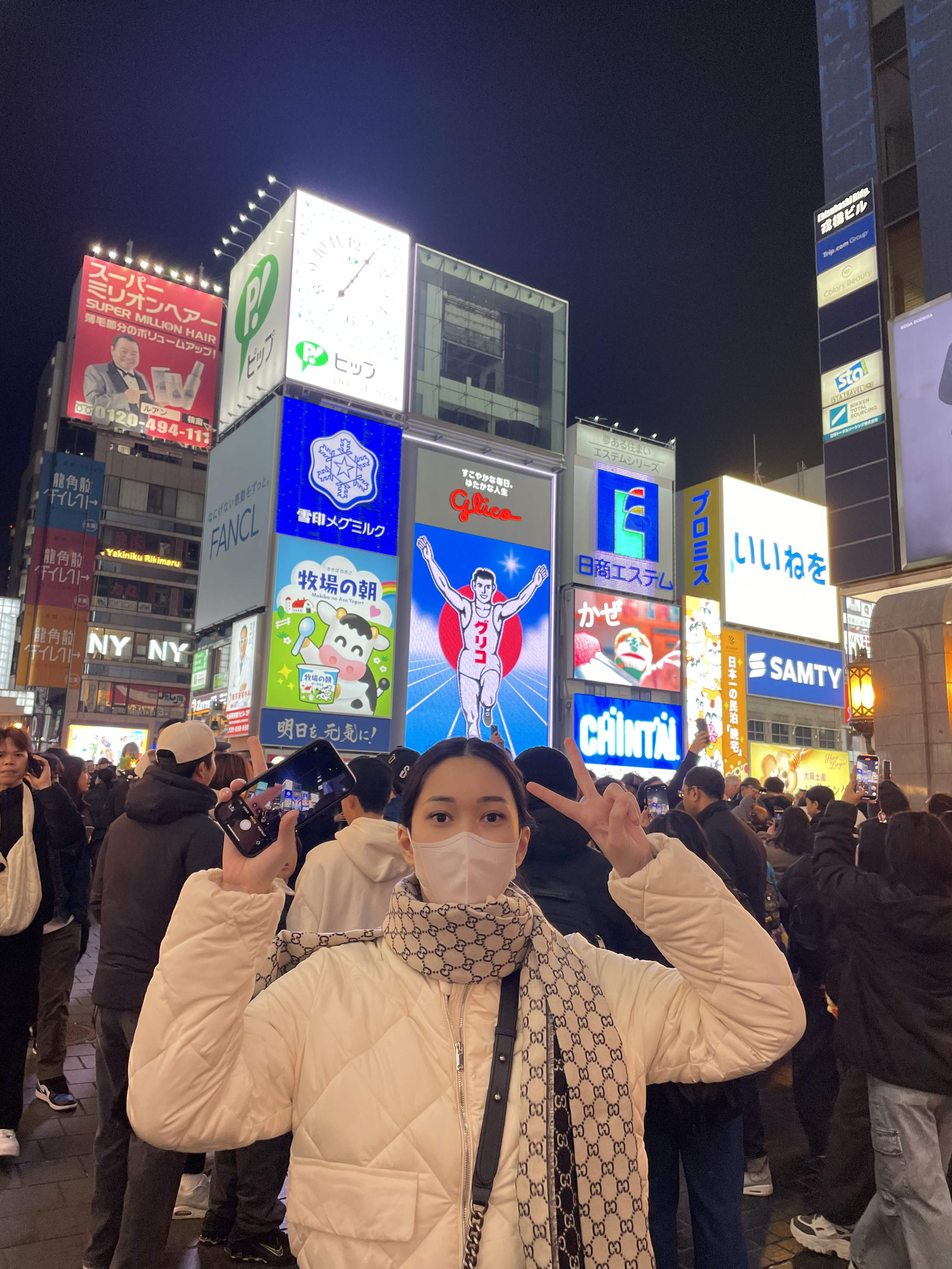
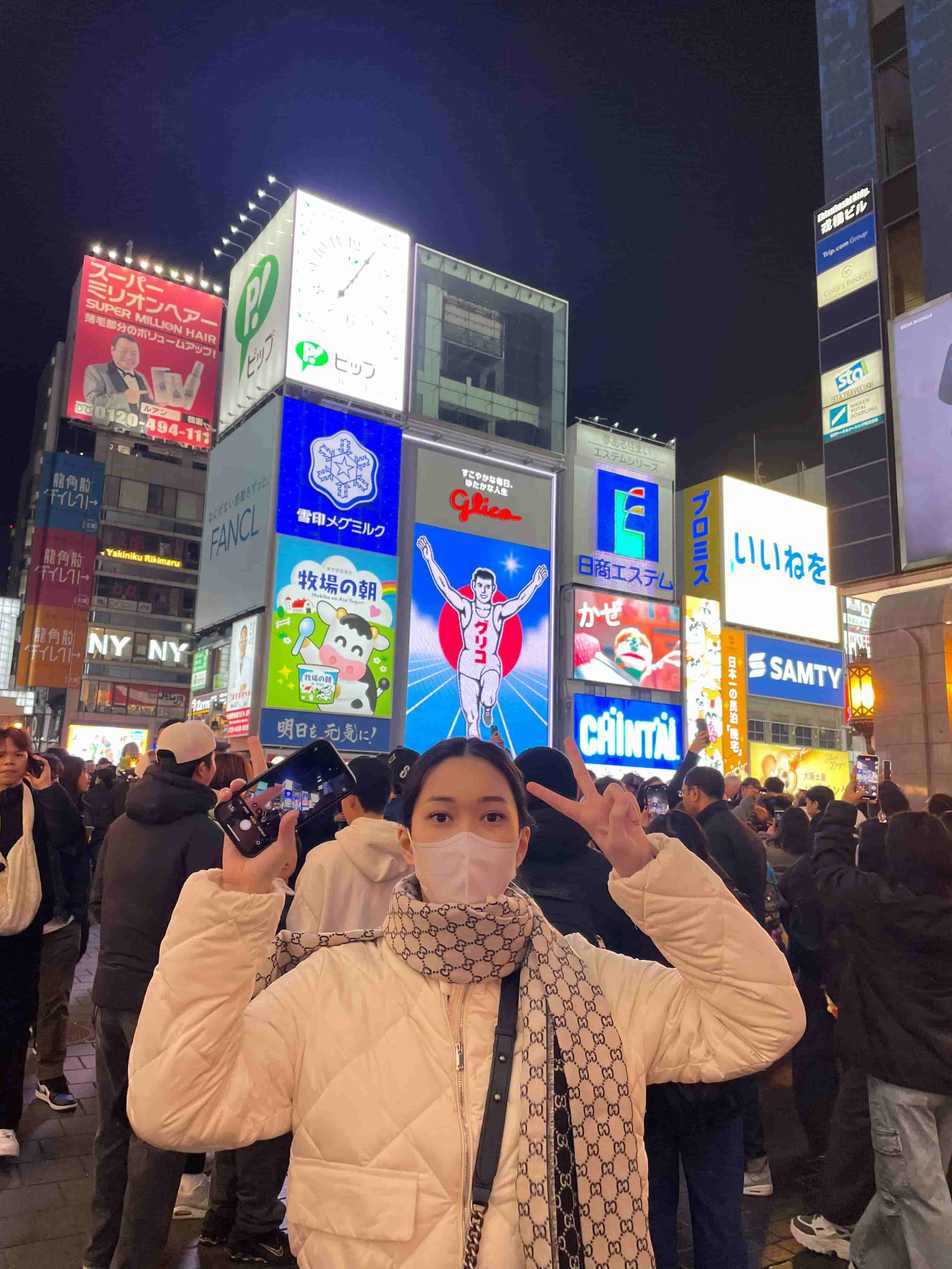
reduce img size

diff --git a/src/data/JourneyData.js b/src/data/JourneyData.js
@@ -1,0 +1,93 @@
+// Image imports - Vite handles these as static URLs
+export const IMAGES = {
+  2022: {
+    tokyo: [
+      new URL("../img/journey/JP_2022_1.jpeg", import.meta.url).href,
+      new URL("../img/journey/JP_2022_2.jpeg", import.meta.url).href,
+      new URL("../img/journey/JP_2022_3.jpeg", import.meta.url).href,
+      new URL("../img/journey/JP_2022_4.jpeg", import.meta.url).href,
+    ],
+  },
+  2023: {
+    korea: [
+      new URL("../img/journey/KOR_2023_1.jpeg", import.meta.url).href,
+      new URL("../img/journey/KOR_2023_2.jpeg", import.meta.url).href,
+      new URL("../img/journey/KOR_2023_3.jpeg", import.meta.url).href,
+      new URL("../img/journey/KOR_2023_4.jpeg", import.meta.url).href,
+    ],
+  },
+  2024: {
+    taiwan: [
+      new URL("../img/journey/TW_2024_1.jpeg", import.meta.url).href,
+      new URL("../img/journey/TW_2024_2.jpeg", import.meta.url).href,
+      new URL("../img/journey/TW_2024_3.jpeg", import.meta.url).href,
+    ],
+    hongkong: [
+      new URL("../img/journey/HK_2024_1.jpeg", import.meta.url).href,
+      new URL("../img/journey/HK_2024_2.jpeg", import.meta.url).href,
+      new URL("../img/journey/HK_2024_3.jpeg", import.meta.url).href,
+    ],
+  },
+  2025: {
+    japan: [
+      new URL("../img/journey/JP_2025_1.jpg", import.meta.url).href,
+      new URL("../img/journey/JP_2025_2.jpg", import.meta.url).href,
+      new URL("../img/journey/JP_2025_3.jpg", import.meta.url).href,
+    ],
+    hongkong: [
+      new URL("../img/journey/HK_2025_1.jpg", import.meta.url).href,
+      new URL("../img/journey/HK_2025_2.jpg", import.meta.url).href,
+      new URL("../img/journey/HK_2025_3.jpg", import.meta.url).href,
+    ],
+  },
+  2026: {
+    england: [
+      new URL("../img/journey/UK_2026_1.jpeg", import.meta.url).href,
+      new URL("../img/journey/UK_2026_2.jpeg", import.meta.url).href,
+      new URL("../img/journey/UK_2026_3.jpeg", import.meta.url).href,
+      new URL("../img/journey/UK_2026_4.jpg", import.meta.url).href,
+    ],
+  },
+};
+
+// Background images
+export const BACKGROUNDS = {
+  tokyo: new URL("../img/JP_Flag.png", import.meta.url).href,
+  korea: new URL("../img/KOR_Flag.png", import.meta.url).href,
+  hongkong: new URL("../img/HK_Flag.png", import.meta.url).href,
+  england: new URL("../img/UK_Flag.png", import.meta.url).href,
+};
+
+// Travel data configuration
+export const TRAVEL_DATA = [
+  {
+    year: "2022",
+    title: "We Come To Japan (Tokyo)",
+    background: BACKGROUNDS.tokyo,
+    images: [...IMAGES[2022].tokyo],
+  },
+  {
+    year: "2023",
+    title: "We Come To Korea",
+    background: BACKGROUNDS.korea,
+    images: [...IMAGES[2023].korea],
+  },
+  {
+    year: "2024",
+    title: "We Come To Taiwan & Hong Kong",
+    background: BACKGROUNDS.hongkong,
+    images: [...IMAGES[2024].taiwan, ...IMAGES[2024].hongkong],
+  },
+  {
+    year: "2025",
+    title: "We Come To Japan (Osaka) & Hong Kong",
+    background: BACKGROUNDS.tokyo,
+    images: [...IMAGES[2025].japan, ...IMAGES[2025].hongkong],
+  },
+  {
+    year: "2026",
+    title: "We Come To England",
+    background: BACKGROUNDS.england,
+    images: [...IMAGES[2026].england],
+  },
+];

diff --git a/src/data/GradData.js b/src/data/GradData.js
@@ -1,15 +1,15 @@
-import MonGrad1 from "../../img/about/Mon_Grad_1.jpeg";
-import MonGrad2 from "../../img/about/Mon_Grad_2.jpeg";
-import MonGrad3 from "../../img/about/Mon_Grad_3.jpeg";
-import MonGrad4 from "../../img/about/Mon_Grad_4.jpeg";
-import MonGrad5 from "../../img/about/Mon_Grad_5.jpeg";
-import MonGrad6 from "../../img/about/Mon_Grad_6.jpeg";
-import JimGrad1 from "../../img/about/Jim_Grad_1.jpeg";
-import JimGrad2 from "../../img/about/Jim_Grad_2.jpeg";
-import JimGrad3 from "../../img/about/Jim_Grad_3.jpeg";
-import JimGrad4 from "../../img/about/Jim_Grad_4.jpeg";
-import JimGrad5 from "../../img/about/Jim_Grad_5.jpeg";
-import JimGrad6 from "../../img/about/Jim_Grad_6.jpeg";
+import MonGrad1 from "../img/about/Mon_Grad_1.jpg";
+import MonGrad2 from "../img/about/Mon_Grad_2.jpeg";
+import MonGrad3 from "../img/about/Mon_Grad_3.jpeg";
+import MonGrad4 from "../img/about/Mon_Grad_4.jpeg";
+import MonGrad5 from "../img/about/Mon_Grad_5.jpeg";
+import MonGrad6 from "../img/about/Mon_Grad_6.jpeg";
+import JimGrad1 from "../img/about/Jim_Grad_1.jpg";
+import JimGrad2 from "../img/about/Jim_Grad_2.jpeg";
+import JimGrad3 from "../img/about/Jim_Grad_3.jpg";
+import JimGrad4 from "../img/about/Jim_Grad_4.jpeg";
+import JimGrad5 from "../img/about/Jim_Grad_5.jpeg";
+import JimGrad6 from "../img/about/Jim_Grad_6.jpeg";
 
 export const monGradImgs = [
     { src: MonGrad1, alt: "Mon Graduation Image 1" },

diff --git a/src/components/about/About.jsx b/src/components/about/About.jsx
@@ -2,12 +2,12 @@ import React, { useState } from "react";
 import Navbar from "../ui/Navbar";
 import "./About.css";
 import JimBg from "../../img/Cinnamoroll_bg.png";
-import MonBg from "../../img/FMCG_BG.jpg";
+import MonBg from "../../img/FMCG_BG.png";
 import JimImg from "../../img/jim1.jpg";
 import MonImg from "../../img/mon1.jpg";
 import ModalGraduation from "../ui/ModalGraduation";
 import ImageSlider from "../ui/ImageSlider";
-import { monGradImgs, jimGradImgs } from "./GradData";
+import { monGradImgs, jimGradImgs } from "../../data/GradData";
 
 const AboutPage = () => {
   const [activeModalId, setActiveModalId] = useState(null);

diff --git a/src/components/journey/Journey.jsx b/src/components/journey/Journey.jsx
@@ -1,7 +1,7 @@
 import React, { useRef, useEffect, useState } from "react";
 import styles from "./Journey.module.css";
 import Navbar from "../ui/Navbar";
-import { TRAVEL_DATA } from "./JourneyData";
+import { TRAVEL_DATA } from "../../data/JourneyData";
 
 const Travel = React.lazy(() => import("../ui/Travel"));
 
